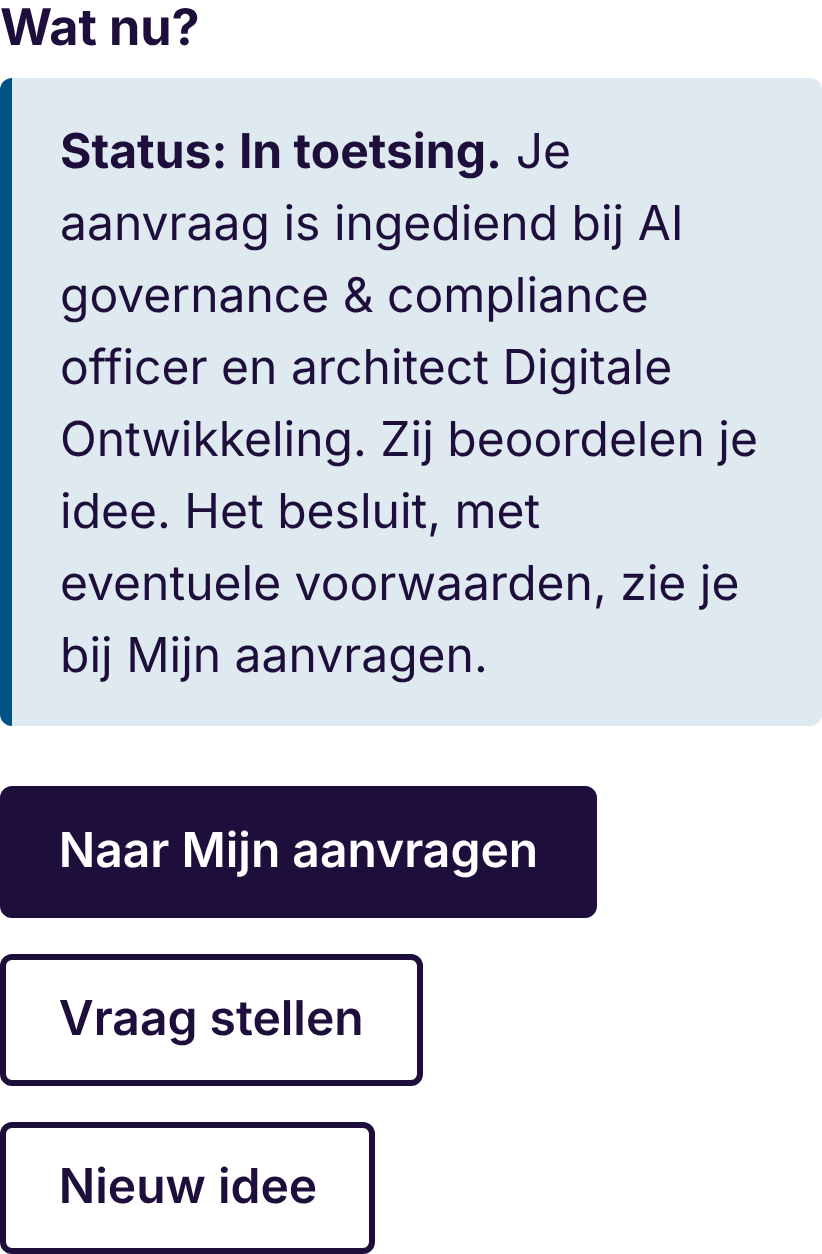
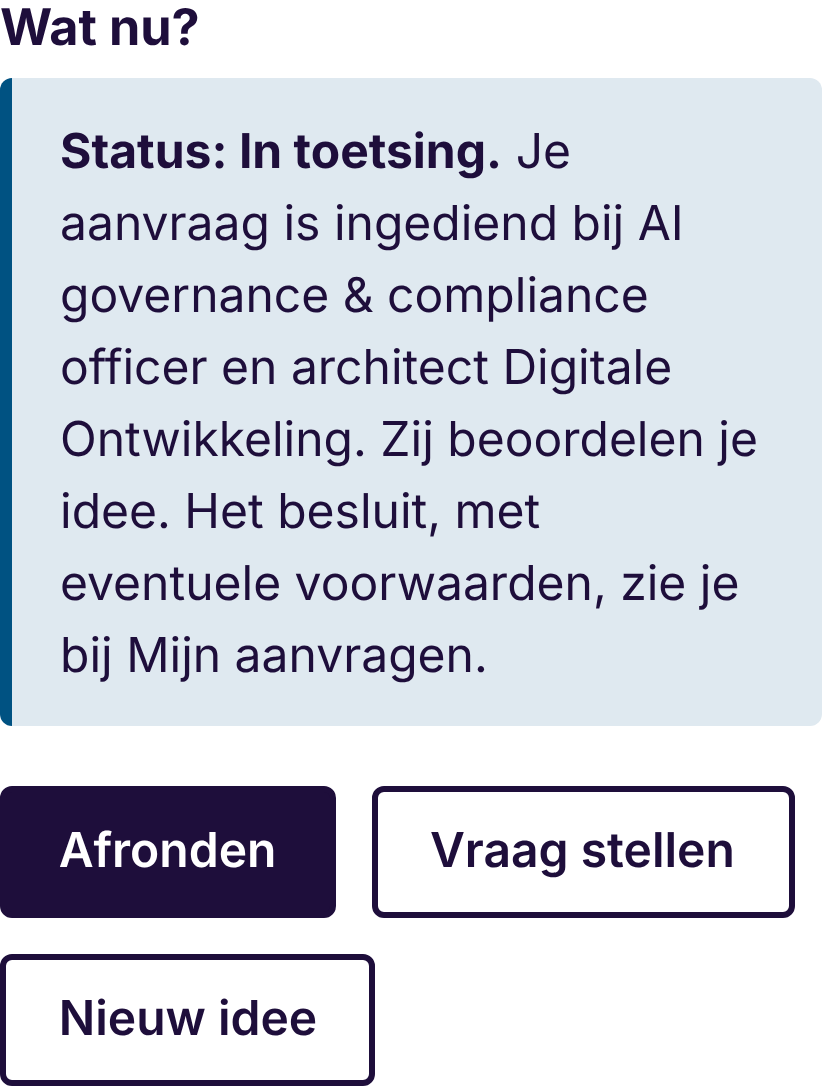
Knop 'Afronden' als duidelijke laatste stap van de wizard
- Zodra er geen vervolgactie meer openstaat (na indienen of accountaanvraag, of bij
  'Niet op deze manier') is 'Afronden' de hoofdknop; vervangt 'Naar Mijn aanvragen'
- Afronden ruimt het gesprek op en opent Mijn aanvragen met een bevestiging
  (teksten in content/teksten.yaml, afronden)
- Tests bijgewerkt (e2e en demo)

Claude-Session: https://claude.ai/code/session_014b33ZBqiBNDi9gQixu1CBb

diff --git a/src/components/Adviescard.tsx b/src/components/Adviescard.tsx
@@ -4,7 +4,6 @@
  * beslisregels) en de content. Kleur is nooit de enige drager van betekenis:
  * de naam van de uitkomst staat er altijd bij.
  */
-import Link from "next/link";
 import { forwardRef } from "react";
 import { alsLijst } from "./Keuze";
 import { datum, kleurVan, toetserNaam, toolNaam, type AdviesDto, type ContentDto } from "./client";
@@ -16,13 +15,15 @@ interface Props {
   actieBezig?: boolean;
   onVraag?: () => void;
   onOpnieuw?: () => void;
+  /** Wizard afronden; alleen getoond als er geen vervolgactie meer openstaat. */
+  onAfronden?: () => void;
   actieFout?: string | null;
   /** "medewerker" (standaard) toont de vervolgactie; "inzage" is voor toetsers en beheerders. */
   weergave?: "medewerker" | "inzage";
 }
 
 export const Adviescard = forwardRef<HTMLHeadingElement, Props>(function Adviescard(
-  { advies, content, onActie, actieBezig, onVraag, onOpnieuw, actieFout, weergave = "medewerker" },
+  { advies, content, onActie, actieBezig, onVraag, onOpnieuw, onAfronden, actieFout, weergave = "medewerker" },
   kopRef,
 ) {
   const kleur = kleurVan(content, advies.uitkomst)!;
@@ -33,6 +34,8 @@ export const Adviescard = forwardRef<HTMLHeadingElement, Props>(function Adviesc
   const toetserNamen = advies.toetsers.map((id) => r.toetsers.find((x) => x.id === id)?.naam ?? id);
   const vlaggenJa = r.rode_vlaggen.filter((v) => advies.rodeVlaggen[v.id]);
   const actieKanNog = advies.status === "advies_gegeven" && actie?.knop;
+  // Klaar = geen vervolgactie meer open: al uitgevoerd, of bij deze uitkomst hoort er geen.
+  const klaar = !actieKanNog;
 
   return (
     <article className="adviescard" aria-labelledby="advies-kop">
@@ -169,8 +172,8 @@ export const Adviescard = forwardRef<HTMLHeadingElement, Props>(function Adviesc
                 {actie.knop.replace("{tool}", tool)}
               </button>
             )}
-            {advies.status !== "advies_gegeven" && (
-              <Link className="knop" href="/mijn-aanvragen">Naar Mijn aanvragen</Link>
+            {klaar && onAfronden && (
+              <button type="button" className="knop" onClick={onAfronden}>{t.afronden.knop}</button>
             )}
             {onVraag && <button type="button" className="knop knop--secundair" onClick={onVraag}>Vraag stellen</button>}
             {onOpnieuw && (

diff --git a/tests/e2e/wizard.spec.ts b/tests/e2e/wizard.spec.ts
@@ -56,10 +56,12 @@ test("volledige wizard met mock-coach: verzuimdashboard → Eerst toetsen, aanvr
   await expect(card).toContainText("Je aanvraag is ingediend bij AI governance & compliance officer en architect Digitale Ontwikkeling.");
   await expect(card.getByRole("button", { name: "Aanvraag indienen voor toetsing" })).toHaveCount(0);
   await expect(card.getByRole("button", { name: "Nieuw idee" })).toBeVisible();
-  await expect(card.getByRole("link", { name: "Naar Mijn aanvragen" })).toBeVisible();
 
-  // Mijn aanvragen
-  await page.getByRole("link", { name: "Mijn aanvragen", exact: true }).click();
+  // Afronden: naar Mijn aanvragen, met een bevestiging.
+  const ref = (await page.locator(".adviescard__voet strong").innerText()).trim();
+  await card.getByRole("button", { name: "Afronden" }).click();
+  await page.waitForURL(/\/mijn-aanvragen\?afgerond=/);
+  await expect(page.locator(".info[role=status]")).toContainText(`Klaar. Je advies ${ref} is afgerond`);
   const rij = page.locator(".aanvraag").first();
   await expect(rij).toContainText(/TC-\d{4}-\d{4}/);
   await expect(rij).toContainText("Eerst toetsen");
@@ -119,6 +121,14 @@ test("rode vlag: Niet op deze manier, met alternatief en zonder aanvraagknop", a
   await expect(card).toContainText("Rode vlag: een tool die IJK niet heeft goedgekeurd");
   await expect(card).toContainText("Zo kan het wel");
   await expect(card.getByRole("button", { name: /Account aanvragen|Aanvraag indienen/ })).toHaveCount(0);
+
+  // Ook hier kun je afronden: het gesprek wordt opgeruimd, het advies blijft in het register.
+  await card.getByRole("button", { name: "Afronden" }).click();
+  await page.waitForURL(/\/mijn-aanvragen\?afgerond=/);
+  await expect(page.locator(".aanvraag").first()).toContainText("Niet op deze manier");
+  // Er is geen concept (met gesprek) meer dat bij dit advies hoort.
+  const concept = await (await page.request.get("/api/concept")).json();
+  expect(concept.concept?.adviesId ?? null).toBeNull();
 });
 
 test("meerdere antwoorden: collega's én klanten bij Gebruikers → de hoogste kleur telt", async ({ page }) => {

diff --git a/src/components/wizard/Wizard.tsx b/src/components/wizard/Wizard.tsx
@@ -12,6 +12,7 @@ import { Adviescard } from "../Adviescard";
 import { Chatvenster, CHAT_INVOER_ID } from "../Chatvenster";
 import { Stappenbalk } from "../Stappenbalk";
 import { api, ApiFoutClient, toolNaam, useContent, type AdviesDto } from "../client";
+import { afgerondPad, volledigPad } from "@/lib/paden";
 import { Stap1 } from "./Stap1";
 import { Stap2 } from "./Stap2";
 import { ontbrekendeVelden, Stap3 } from "./Stap3";
@@ -242,6 +243,14 @@ export function Wizard() {
     }
   }
 
+  /** Wizard afronden: gesprek opruimen en naar Mijn aanvragen, met een bevestiging. */
+  async function afronden() {
+    if (!advies) return;
+    // Na een vervolgactie is het concept al verwijderd; bij "Niet op deze manier" ruimen we het hier op.
+    if (conceptId && !afgerond) await api(`/api/concept/${conceptId}`, { method: "DELETE" }).catch(() => undefined);
+    window.location.href = volledigPad(afgerondPad(advies.referentie));
+  }
+
   async function opnieuwBeginnen() {
     if (!afgerond && !window.confirm("Weet je zeker dat je opnieuw wilt beginnen? Je antwoorden en het gesprek worden gewist. Een gegeven advies blijft in het register.")) return;
     if (conceptId && !afgerond) await api(`/api/concept/${conceptId}`, { method: "DELETE" }).catch(() => undefined);
@@ -337,6 +346,7 @@ export function Wizard() {
               actieFout={actieFout}
               onVraag={() => document.getElementById(CHAT_INVOER_ID)?.focus()}
               onOpnieuw={opnieuwBeginnen}
+              onAfronden={afronden}
             />
           )}
 

diff --git a/src/components/MijnAanvragen.tsx b/src/components/MijnAanvragen.tsx
@@ -9,6 +9,13 @@ export function MijnAanvragen() {
   const [adviezen, setAdviezen] = useState<AdviesDto[] | null>(null);
   const [fout, setFout] = useState<string | null>(null);
 
+  // Bevestiging na "Afronden" in de wizard (?afgerond=TC-JJJJ-NNNN).
+  const [afgerond, setAfgerond] = useState<string | null>(null);
+  useEffect(() => {
+    const ref = new URLSearchParams(window.location.search).get("afgerond");
+    if (ref && /^TC-\d{4}-\d{4}$/.test(ref)) setAfgerond(ref);
+  }, []);
+
   useEffect(() => {
     api<{ adviezen: AdviesDto[] }>("/api/mijn-aanvragen")
       .then((r) => setAdviezen(r.adviezen))
@@ -31,6 +38,9 @@ export function MijnAanvragen() {
         Hier staan je adviezen en aanvragen. Is er iets veranderd aan je idee? Doorloop de wizard dan opnieuw: elke nieuwe
         toepassing of wijziging krijgt een eigen advies.
       </p>
+      {afgerond && content && (
+        <p className="info" role="status">{content.teksten.afronden.bevestiging.replace("{referentie}", afgerond)}</p>
+      )}
       {fout && <p className="foutmelding" role="alert">{fout}</p>}
       {!content || !adviezen ? (
         !fout && <p role="status">Bezig met laden…</p>

diff --git a/tests/demo/demo.spec.ts b/tests/demo/demo.spec.ts
@@ -37,9 +37,10 @@ test("demo: medewerker → toetsers → besluit, beheer, en geen WCAG-overtredin
   await page.getByRole("button", { name: "Aanvraag indienen voor toetsing" }).click();
   await expect(page.locator(".adviescard")).toContainText("Status: In toetsing");
 
-  // Herladen: gegevens blijven (localStorage).
-  await page.getByRole("link", { name: "Mijn aanvragen", exact: true }).click();
-  await page.waitForURL(`**${B}/mijn-aanvragen/`);
+  // Afronden → Mijn aanvragen met bevestiging; herladen: gegevens blijven (localStorage).
+  await page.getByRole("button", { name: "Afronden" }).click();
+  await page.waitForURL(`**${B}/mijn-aanvragen/?afgerond=${ref}`);
+  await expect(page.locator(".info[role=status]")).toContainText(`Je advies ${ref} is afgerond`);
   await page.reload();
   await expect(page.locator(".aanvraag", { hasText: ref })).toContainText("In toetsing");
 

diff --git a/src/lib/paden.ts b/src/lib/paden.ts
@@ -11,6 +11,10 @@ export function volledigPad(pad: string): string {
   return `${BASIS}${pad}`;
 }
 
+/** "Mijn aanvragen" met een bevestiging dat dit advies is afgerond. */
+export const afgerondPad = (referentie: string) =>
+  `${IS_DEMO ? "/mijn-aanvragen/" : "/mijn-aanvragen"}?afgerond=${encodeURIComponent(referentie)}`;
+
 export const adviesPad = (id: string) => (IS_DEMO ? `/advies/?id=${id}` : `/advies/${id}`);
 export const toetsingPad = (id: string) => (IS_DEMO ? `/toetsing/advies/?id=${id}` : `/toetsing/${id}`);
 export const beheerAdviesPad = (id: string) => (IS_DEMO ? `/beheer/advies/?id=${id}` : `/beheer/advies/${id}`);

diff --git a/src/domain/content-schema.ts b/src/domain/content-schema.ts
@@ -186,6 +186,7 @@ export const tekstenSchema = z.object({
   spelregels_kopjes: z.object({ zelf_doen: tekst, eerst_toetsen: tekst, altijd: tekst }),
   vervolgacties: z.record(z.enum(VERVOLGACTIES), z.object({ knop: z.string(), uitleg: tekst })),
   statussen: z.record(z.enum(STATUSSEN), tekst),
+  afronden: z.object({ knop: tekst, bevestiging: tekst }),
   na_actie: z.object({
     account_aangevraagd: tekst,
     in_toetsing: tekst,
